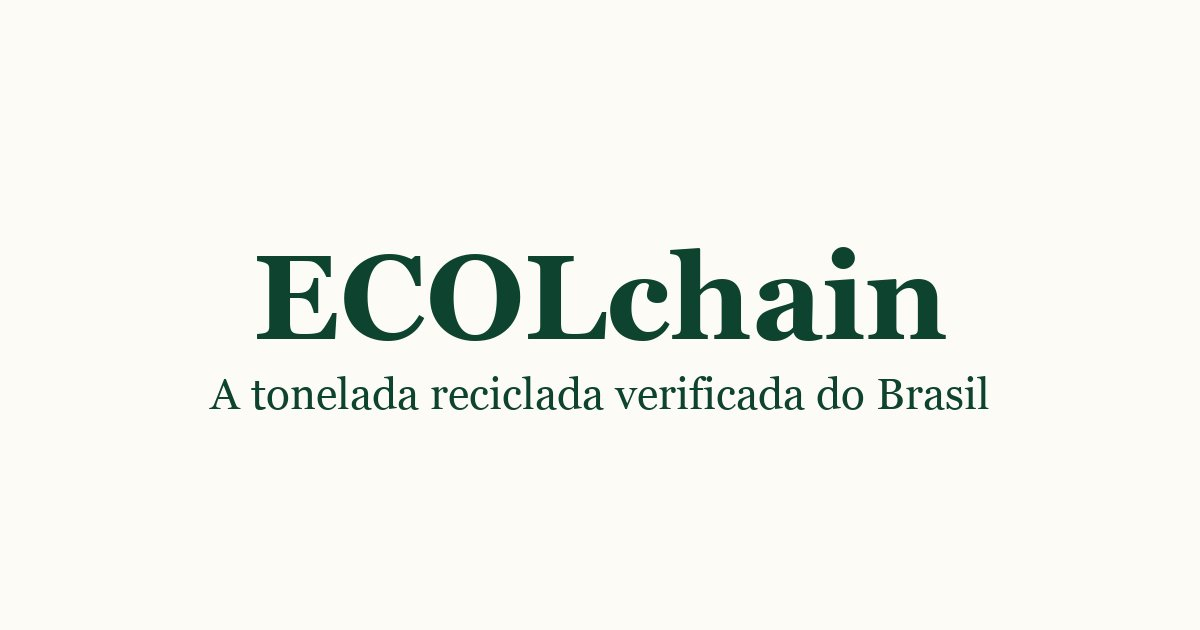
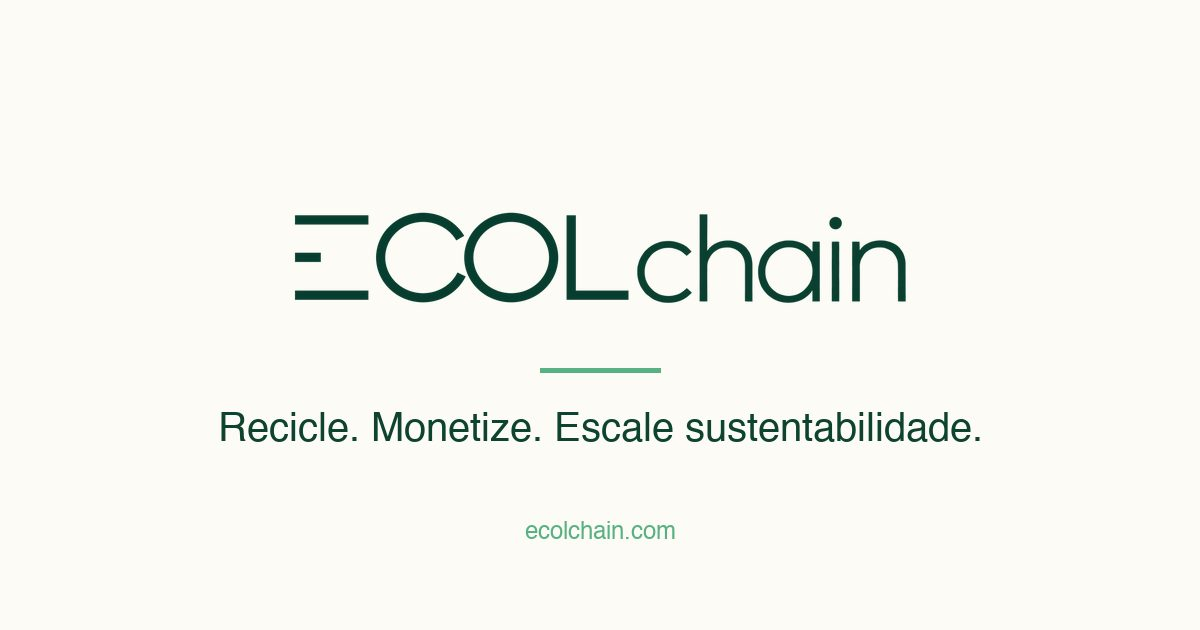
feat: nova imagem social og.jpg + AGENTS.md de contexto do projeto

Changed region(s): [[0.2158, 0.3317, 0.8017, 0.5429], [0.185, 0.573, 0.8325, 0.7238], [0.4317, 0.8143, 0.555, 0.8746]]

diff --git a/AGENTS.md b/AGENTS.md
@@ -1,0 +1,112 @@
+# ECOLchain Landing Page · Guia de contexto para agentes
+
+Este documento dá a qualquer agente (humano ou IA) o contexto necessário para entender,
+modificar e publicar este repositório com segurança. Leia inteiro antes de commitar.
+
+## 1. O que é este projeto
+
+Landing page oficial da ECOLchain em https://ecolchain.com (também www).
+É uma página única, institucional, bilíngue (PT-BR em `/` e EN em `/en/`), com
+formulário de contato. O produto real (dApp) fica em outro repositório e roda em
+https://app.ecolchain.com/pt e /en; os CTAs da landing apontam para lá ou para a
+seção de formulário (`#rede`).
+
+## 2. Posicionamento atual do produto (não contradizer no copy)
+
+Escopo fechado em 06/10/2026:
+
+- O produto é **rastreabilidade e auditoria de resíduos sólidos via blockchain**
+  (cadeia de custódia MTR + NF-e + CDF, hash público na Solana, Data Passport por lote).
+- **NÃO oferecemos créditos** de nenhum tipo (nem carbono, nem reciclagem).
+  Nenhuma string pode conter "crédito" (PT) ou "credit" (EN); há teste que falha se aparecer.
+- **NÃO somos B2C**: não existe jornada de cidadão, recompensas para consumidor ou
+  seção "Para você". Público-alvo: indústrias, marcas, cooperativas e poder público.
+- **NÃO temos calculadora** de metas/custos (removida para evitar alegações não
+  comprovadas; o projeto ainda não tem clientes).
+- Conformidade regulatória é o diferencial: seção "Legislação sobre resíduos"
+  (Lei 12.305/2010 · PNRS, Decreto 12.688/2025, Reporte SINIR).
+- CTA principal: "Fale com um especialista" (leva ao formulário `#rede`, que envia
+  e-mail para ecolchain@gmail.com para aprovação manual de entrada na rede).
+- MVP com foco em vidro (experiência da fundadora na cadeia do vidro); materiais
+  listados no formulário: vidros, PET 1, PEAD 2, alumínio, papelão, outros.
+
+## 3. Stack e estrutura
+
+- Next.js 16 (App Router) + TypeScript + Tailwind CSS v4 + Vitest. Código em `app/`.
+- `app/src/content/pt.ts` é a **fonte da verdade** do copy e do tipo `LandingCopy`;
+  `app/src/content/en.ts` espelha a mesma estrutura (paridade verificada por teste).
+  Nunca hardcode texto em componentes: todo texto vem de `content/`.
+- `app/src/content/steps.pt.ts` / `steps.en.ts`: as 7 etapas do walkthrough
+  (ator `coleta` = "Transporte de coleta"; não existe mais ator "coletor").
+- Componentes: `LandingPage.tsx` (seções), `TrilhoWalkthrough.tsx` (diagrama em linha
+  reta + cards), `RedeForm.tsx` (formulário), `SiteHeader/SiteFooter`, `Reveal`
+  (animações de scroll/countup), `CarbonBadge`.
+- `app/src/app/api/solicitar/route.ts`: POST do formulário → e-mail via Resend.
+  Env: `SOLICITAR_TO` (padrão ecolchain@gmail.com), `SOLICITAR_FROM`, `RESEND_API_KEY`.
+  Sem `RESEND_API_KEY` responde 503 `email_unavailable` (comportamento testado).
+- Assets em `app/public/`: `favicon.svg` (marca E), `img/ecolchain-logo.webp`
+  (wordmark), `img/og.jpg` (imagem social 1200x630), `fonts/inter-var-latin.woff2`.
+
+## 4. Marca e regras de copy
+
+- Paleta: texto verde-floresta `#0e4330` / tinta `#0a3a28`, acento `#58b183`,
+  bandas verde-claro `#e4f2ea`, fundos creme `#fdfbf6` e papel `#f2eedd`.
+- **Nunca usar em dash (U+2014)** em nenhuma string de copy (teste bloqueia).
+- Tom: direto, sem jargão de cripto para público geral; sem promessas de prazo
+  (não prometer "resposta em N dias"); números sempre com fonte citada.
+- Low-carbon: alvo < 0,3 g CO₂/visita. CSS puro para visualizações, imagens WebP/JPG
+  otimizadas, fonte única self-hosted, sem frameworks JS de UI além do React do Next.
+  Referências: sustainablewebdesign.org, ecograder.com, websitecarbon.com.
+
+## 5. Fluxo de trabalho obrigatório (TDD + esteira)
+
+1. **TDD**: ajuste/crie testes em `app/tests/` primeiro, veja falhar (RED),
+   implemente (GREEN). `cd app && npm test` (vitest run), `npm run lint`, `npm run build`.
+   Testes atuais cobrem: paridade PT/EN, escopo (sem créditos/B2C/calculadora),
+   legislação única na página, CTA/formulário, steps, formulário API, countup/spring.
+2. Branch de trabalho: `feature/<nome>` a partir de `develop`. Commits em pt-BR,
+   conventional commits (`feat:`, `fix:`...).
+3. Push da feature → CI roda lint+build e abre/atualiza PR para `develop`.
+4. Merge do PR (squash) → CI da develop → abre/atualiza PR para `main`.
+5. Merge para `main` → deploy de produção.
+
+### Armadilha conhecida: squash-merge híbrido
+
+A esteira usa squash nos dois estágios. Se a mesma linha foi alterada e revertida em
+ramos paralelos, o merge entre develop e main pode gerar **árvore híbrida** (parte
+antiga + parte nova) ou duplicação silenciosa de blocos. Procedimento seguro ao
+resolver conflito de PR:
+
+```bash
+git checkout <branch-destino-do-merge-local>   # ex.: feature recebendo develop
+git fetch origin develop && git merge origin/develop --no-commit
+git checkout HEAD -- app                        # conteúdo da branch atual é autoritativo
+git commit -m "merge: <origem> em <destino> (conteúdo autoritativo)"
+git push
+```
+
+Depois de qualquer merge desse tipo, rodar `npm test` e conferir que a árvore final
+é idêntica à da branch de origem do conteúdo. Existe teste que garante ocorrência
+única da seção `#legislacao` no `LandingPage.tsx` (regressão real que foi a produção).
+
+## 6. Deploy e infraestrutura
+
+- Hoje o workflow de main publica na Vercel (que serve ecolchain.com).
+- Alvo oficial decidido pelo time: **Cloudflare Workers via OpenNext**
+  (`app/wrangler.jsonc`, `app/open-next.config.ts`, scripts `preview:cf`/`deploy:cf`).
+  Pendência: editar `.github/workflows/*` exige token com escopo `workflow`;
+  os segredos Cloudflare (`CLOUDFLARE_API_TOKEN`, `CLOUDFLARE_ACCOUNT_ID`,
+  `RESEND_API_KEY` via `wrangler secret`) precisam ser configurados.
+- Infra como código: repo `ecolchain-infra-networks-networks`, dir
+  `infra/terraform/landing-page` (DNS na Cloudflare; recurso Vercel a migrar para
+  `cloudflare_workers_custom_domain`).
+- Pós-deploy, verificar com curl: conteúdo-chave, ausência de strings proibidas
+  ("crédito", "Para você", "5 dias úteis") e assets (favicon.svg, img/og.jpg).
+
+## 7. Verificação rápida antes de finalizar qualquer tarefa
+
+- [ ] `npm test` verde (vitest)
+- [ ] `npm run lint` e `npm run build` verdes (ou CI verde no PR)
+- [ ] Paridade PT/EN mantida (o teste de chaves cobre)
+- [ ] Sem em dash, sem "crédito"/"credit", sem B2C, sem promessa de prazo
+- [ ] Produção verificada com curl após o deploy
